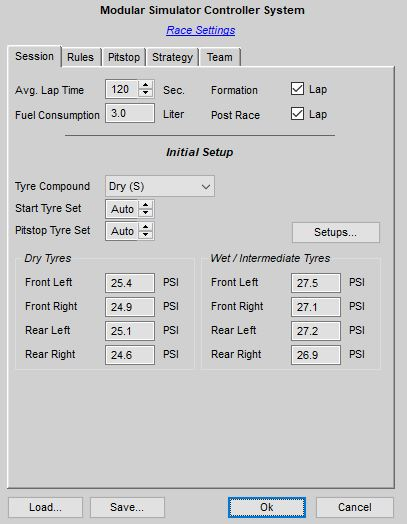
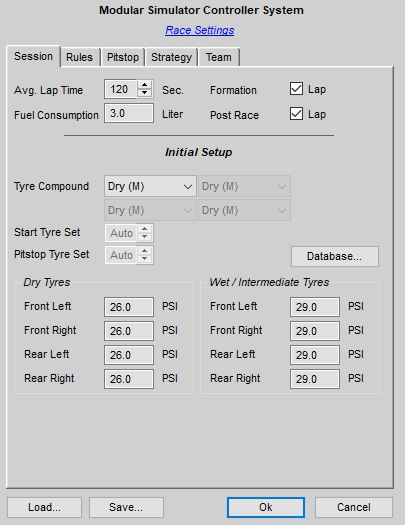
Mixed Tyres Part 23

diff --git a/Docs/AI Race Engineer.md b/Docs/AI Race Engineer.md
@@ -271,9 +271,11 @@ The *Race.settings* looks like this:
 Most options above define general settings which may be applicable to many different race events. But the options from the *[Session Setup]* section need to be adjusted for each individual race event, as long, as you want Jona to come to correct recommendations.
 
   - The first fresh tyre set (*Tyre.Set.Fresh*), which is available for a pitstop and the tyres and pressures (*Tyre.XXX.Pressure.YY*) used for the first stint. Jona needs this information to calculate the target pressures for the first pitstop.
-  - The *Lap.AvgTime* and *Fuel.AvgConsumption* are more informational, but might lead to more accurate estimations for the fuel calulations in the first few laps, where you typically have much slower lap times.
+  - The *Lap.AvgTime* and *Fuel.AvgConsumption* are mostly informational, but might lead to more accurate estimations for the fuel calulations in the first few laps, where you typically have much slower lap times.
 
-Let's have a look at the settings tool, which provides a graphical user interface for the *Race.settings* file. The dialog provides two distinct areas as tabs.
+Let's have a look at the "Race Settings" tool, which provides a graphical user interface for the *Race.settings* file. It is recommended to start "Race Settings", when you are already in a session, so that the simulator, car and track can be detected, because some settings, especially the tyre setup will vary with car and track.
+
+The "Race Settings" tool provides several distinct areas as tabs.
 
 #### Tab *Session*
 
@@ -281,13 +283,13 @@ The first tab of the settings tool contains information about the actual session
 
 ![](https://github.com/SeriousOldMan/Simulator-Controller/blob/main/Docs/Images/Race%20Settings%201.JPG)
 
-You must supply the tyre selection and pressure setup that is used at the beginning of the race in the lower area of the *Session* tab, whereas the static information for the given track and race is located in the upper area. With the "Setups..." button you can open the ["Session Database"](https://github.com/SeriousOldMan/Simulator-Controller/wiki/Session-Database) tool to look up the best match for tyre pressures from recent sessions. Beside that, you can use the "Import" button to retrieve the current tyre setup information from your simulation game (this can also be triggered automatically at the beginning of a session depending on the configuration of the Race Engineer). But what data is available for an import depends on the capabilities of the simulator game in use. For example, *Assetto Corsa Competizione* currently only gives access to the tyre pressures that are configured in the Pitstop MFD. But you may use the "Use current pressures" option in the *Assetto Corsa Competizione* "Fuel & Strategy" area to transfer your current tyre setup to the Pitstop MFD and *import* the settings from there. Depending on your currently mounted tyres, the values will be imported as "Dry" or "Intermediate" / "Wet" setup values. Please consult the documentation for the [configuration of the "Race Engineer" plugin](https://github.com/SeriousOldMan/Simulator-Controller/wiki/Installation-&-Configuration#tab-race-engineer) for more information on the different methods to initialize the initial pressures at the beginning of a session, and also take a look at the documentation about [handling tyre compounds](https://github.com/SeriousOldMan/Simulator-Controller/wiki/Tyre-Compounds) in general.
+You must supply the tyre selection and pressure setup that is used at the beginning of the race in the lower area of the *Session* tab, whereas the static information for the given track and race is located in the upper area. With the "Database..." button you can open the ["Session Database"](https://github.com/SeriousOldMan/Simulator-Controller/wiki/Session-Database) tool to look up the best match for tyre pressures from recent sessions. Beside that, you can use the "Import" button to retrieve the current tyre setup information from your simulation game (this can also be triggered automatically at the beginning of a session depending on the configuration of the Race Engineer). But what data is available for an import depends on the capabilities of the simulator game in use. For example, *Assetto Corsa Competizione* currently only gives access to the tyre pressures that are configured in the Pitstop MFD. But you may use the "Use current pressures" option in the *Assetto Corsa Competizione* "Fuel & Strategy" area to transfer your current tyre setup to the Pitstop MFD and *import* the settings from there. Depending on your currently mounted tyres, the values will be imported as "Dry" or "Intermediate" / "Wet" setup values.
 
-The management of tyre sets (mainly used in *Assetto Corsa Competizione*) can be set to "Auto", if you are using automatic import from the simulation. See the discussion about [pitstop handling](https://github.com/SeriousOldMan/Simulator-Controller/wiki/AI-Race-Engineer#the-pitstop) below for more information. 
+The tyre compound selection as well as the selection of the tyre sets will depend on the detected simulator / car / track combination. If "Race Settings" had been started without a simulator currently running, you can only select one tyre compound for all four wheels and the selection of tyre sets is not possible. But if your are running *RaceRoom Racing Experience* and are preparing a session, for example, you will be able to select distinct tyre compounds for the front and for the rear axle. But please note, that for most simulators, the pre-selection of the tyre compound is not necessary, because this information can be retrieved from the API during the first lap.
 
-Note: We requested a more versatile access to setup informations from Kunos already. Hopefully, this will be available in a future version of *Assetto Corsa Competizione*, and the whole process will become much less cumbersome. But to be honest, there is even less functionality available at the moment for other simulators.
+The management of tyre sets (mainly used in *Assetto Corsa Competizione*) can be set to "Auto", if you are using automatic import from the simulation. See the discussion about [pitstop handling](https://github.com/SeriousOldMan/Simulator-Controller/wiki/AI-Race-Engineer#the-pitstop) below for more information. Note: We requested a more versatile access to setup informations from Kunos already. Hopefully, this will be available in a future version of *Assetto Corsa Competizione*, and the whole process will become much less cumbersome. But to be honest, there is even less functionality available at the moment for other simulators.
 
-Additionally worth to be mentioned is the field *Pitstop.Delta*, with which you supply the difference time needed for a normal pitstop (time for pit in and pit out but without any service the time minus the time to pass the pit area on the track). This information is used by Jona to decide, whether an early pitstop for a tyre change or damage repair might be worthwhile.
+Please consult the documentation for the [configuration of the "Race Engineer" plugin](https://github.com/SeriousOldMan/Simulator-Controller/wiki/Installation-&-Configuration#tab-race-engineer) for more information on the different methods to initialize the initial pressures at the beginning of a session, and also take a look at the documentation about [handling tyre compounds](https://github.com/SeriousOldMan/Simulator-Controller/wiki/Tyre-Compounds) in general.
 
 #### Tab *Rules*
 

diff --git a/Docs/AI Race Strategist.md b/Docs/AI Race Strategist.md
@@ -161,6 +161,8 @@ With the second field, *Overtake Delta*, you specify the number of seconds as ti
 
 The second group of fields specify the time required for several pitstop activities, as well as the pitstop window, in which the best pitstop lap will be derived. With the value of *Pitstop Delta*, you supply the difference time needed for a normal pitstop (time for pit in and pit out but without any service time minus the time to pass the pit area on the track, i.e. Drive through vs. Drive by), The fields below specify the time required for the various pit services, like changing tyres, refueling, and so on, as well as these times are combined into an overall pitstop service time.
 
+Additionally worth to be mentioned is the field *Pitlane Delta*, with which you supply the difference time needed for a normal pitstop (time for pit in and pit out but without any service minus the time to pass the pit area on the track). This information is used by the Assistants to decide, whether an early pitstop for a tyre change or damage repair might be worthwhile.
+
 ### Pitstop Recommendation
 
 You can ask Cato to evaluate a couple of possible laps for an upcoming pitstop, either by using a voice command or the ["RecommendPitstop" controller action](https://github.com/SeriousOldMan/Simulator-Controller/wiki/Plugins-&-Modes#plugin-race-strategist). You can either ask to simulate a pitstop around a specific lap or you can simply ask for the best option for the next pitstop. In this case, the target lap is either taken from an active strategy or, when no such strategy has been created, it is determined depending on the amount of fuel left.
